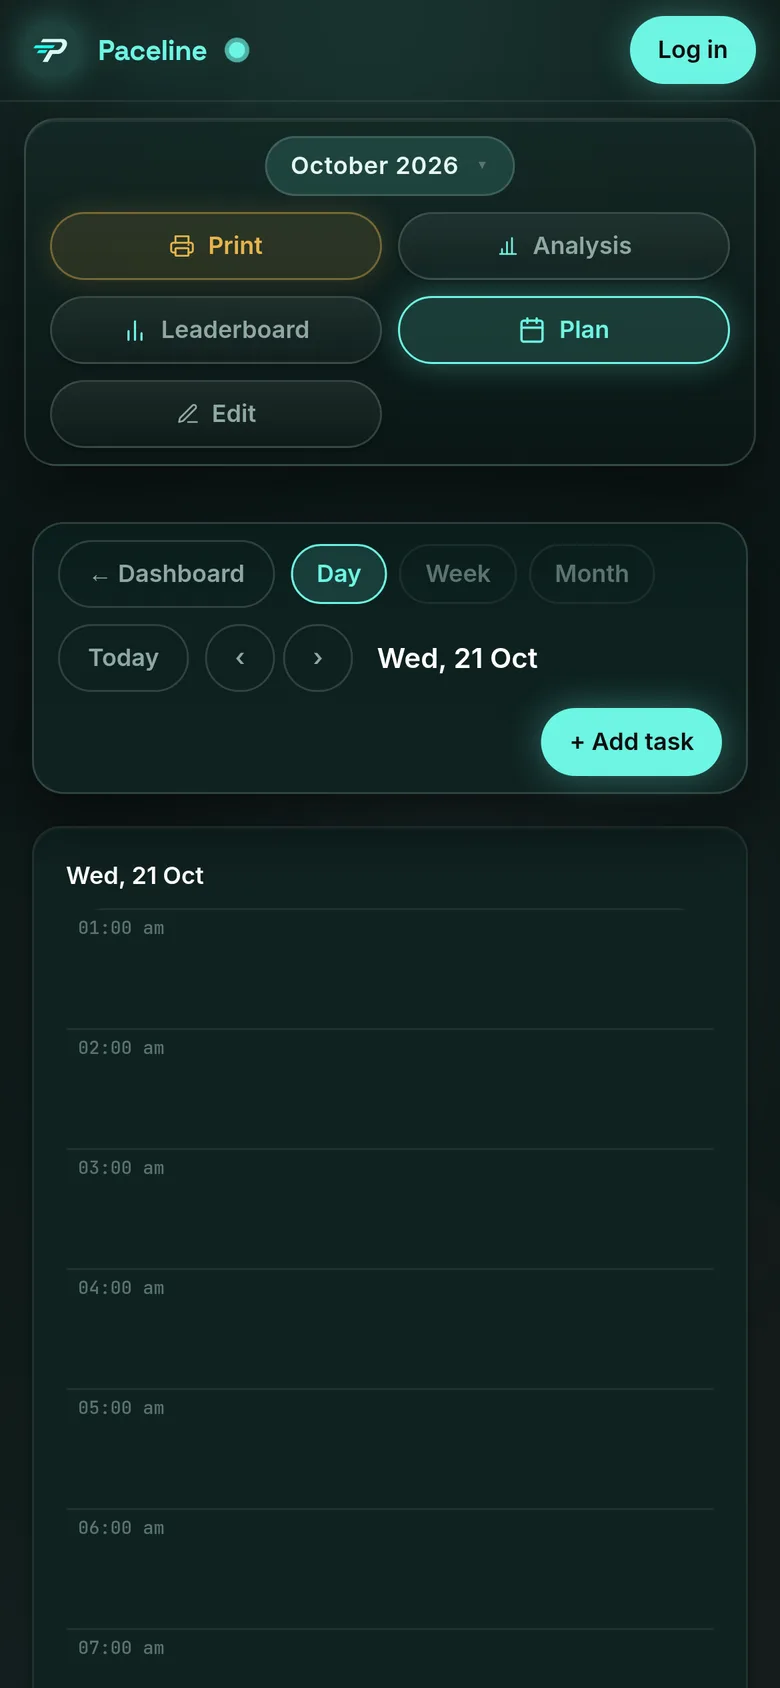
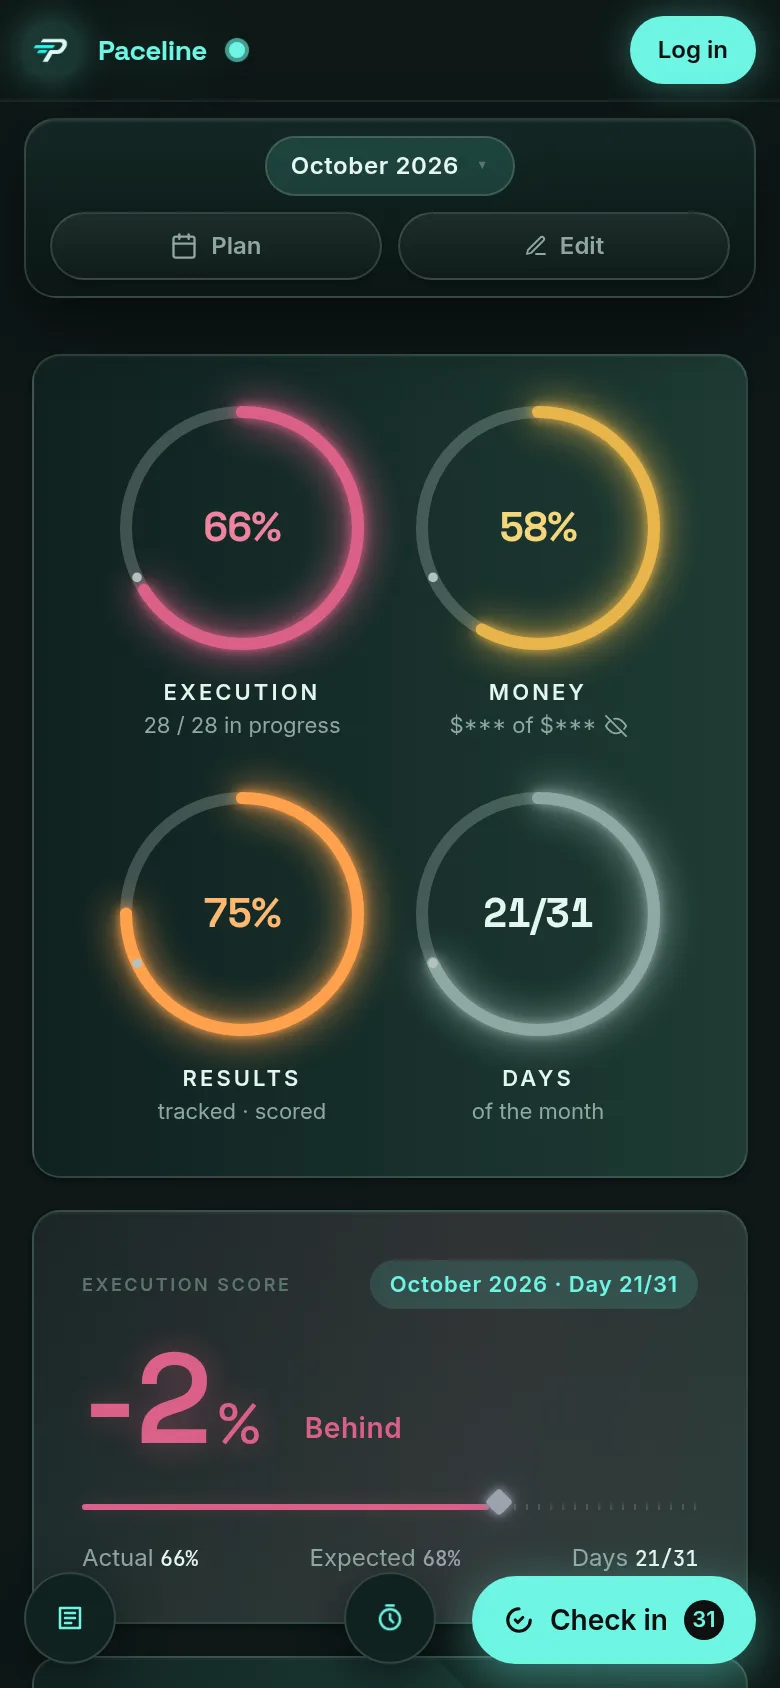
Move the occasional actions into Settings, dock the phone buttons, and use the new desktop capture in the hero

diff --git a/src/pages/Landing.jsx b/src/pages/Landing.jsx
@@ -50,12 +50,14 @@ function useReveal() {
 
 function LandingNav({ signedIn }) {
   const [scrolled, setScrolled] = useState(false);
+  const [pastHero, setPastHero] = useState(false);
   const [open, setOpen] = useState(false);
   const [active, setActive] = useState("");
 
   useEffect(() => {
     const onScroll = () => {
       setScrolled(window.scrollY > 12);
+      setPastHero(window.scrollY > 520);
       const ids = ["how-it-works", "features", "faq"];
       let current = "";
       for (const id of ids) {
@@ -76,6 +78,7 @@ function LandingNav({ signedIn }) {
   ];
 
   return (
+    <>
     <header
       className={`sticky top-0 z-50 transition-colors ${scrolled || open ? "nav-blur" : "bg-transparent"}`}
       style={!scrolled && !open ? { borderBottom: "1px solid transparent" } : undefined}
@@ -145,7 +148,7 @@ function LandingNav({ signedIn }) {
                 setOpen(false);
                 scrollToId(l.id);
               }}
-              className="text-left text-sm py-2"
+              className="text-left text-sm py-3 rounded-lg px-3"
               style={{ color: active === l.id ? "var(--color-accent)" : "var(--color-text-secondary)" }}
             >
               {l.label}
@@ -153,19 +156,39 @@ function LandingNav({ signedIn }) {
           ))}
           <div className="flex flex-col gap-2 pt-2 mt-1" style={{ borderTop: "1px solid var(--color-border-subtle)" }}>
             {signedIn ? (
-              <Btn onClick={() => go("#/app")}>Open tracker</Btn>
+              <Btn className="w-full" size="lg" onClick={() => go("#/app")}>Open tracker</Btn>
             ) : (
               <>
-                <Btn variant="secondary" onClick={() => go("#/login")}>
+                <Btn className="w-full" size="lg" variant="secondary" onClick={() => go("#/login")}>
                   Log in
                 </Btn>
-                <Btn onClick={() => go("#/signup")}>Start tracking</Btn>
+                <Btn className="w-full" size="lg" onClick={() => go("#/signup")}>Start tracking</Btn>
               </>
             )}
           </div>
         </div>
       ) : null}
+
     </header>
+
+      {/* Phone-only bottom CTA: the action stays under the thumb once the
+          hero buttons have scrolled away. */}
+      {!open && pastHero ? (
+        <div
+          className="landing-cta md:hidden fixed inset-x-0 bottom-0 z-50 px-4"
+          style={{
+            paddingTop: 22,
+            paddingBottom: "calc(10px + env(safe-area-inset-bottom, 0px))",
+            background: "linear-gradient(180deg, rgba(11,21,20,0) 0%, rgba(11,21,20,0.92) 45%, rgba(11,21,20,0.98) 100%)",
+            backdropFilter: "blur(6px)",
+          }}
+        >
+          <Btn size="lg" className="w-full press-btn" onClick={() => go(signedIn ? "#/app" : "#/signup")}>
+            {signedIn ? "Open tracker" : "Start tracking — free"}
+          </Btn>
+        </div>
+      ) : null}
+    </>
   );
 }
 
@@ -194,14 +217,14 @@ function RealScreens() {
         >
           <img
             src={SHOT_DESKTOP}
-            alt="The Paceline dashboard: rings for execution, money, results and days, the pace chart, and this month's goal cards."
+            alt="The Paceline dashboard: the month header, rings for execution, money, results and days, the pace chart, and the checklist and focus buttons."
             width="1440"
-            height="936"
+            height="692"
             loading="eager"
             fetchPriority="high"
             decoding="async"
             className="hidden h-auto w-full sm:block"
-            style={{ aspectRatio: "1440 / 936" }}
+            style={{ aspectRatio: "1440 / 692" }}
           />
           {/* Below 640px the laptop capture would be unreadable, so the frame
               shows the phone capture at a size you can actually read. */}
@@ -477,13 +500,13 @@ export default function Landing() {
             </p>
 
             <div className="mt-7 flex flex-col sm:flex-row justify-center gap-3">
-              <Btn size="lg" className="press-btn hover-arrow" onClick={() => go("#/signup")}>
+              <Btn size="lg" className="press-btn hover-arrow w-full sm:w-auto" onClick={() => go("#/signup")}>
                 Start tracking
                 <svg className="arrow-slide" width="15" height="15" viewBox="0 0 24 24" fill="none" stroke="currentColor" strokeWidth="2.2" strokeLinecap="round" strokeLinejoin="round" aria-hidden="true">
                   <path d="M5 12h14M13 6l6 6-6 6" />
                 </svg>
               </Btn>
-              <Btn size="lg" variant="secondary" onClick={() => scrollToId("how-it-works")}>
+              <Btn size="lg" variant="secondary" className="w-full sm:w-auto" onClick={() => scrollToId("how-it-works")}>
                 See how it works
               </Btn>
             </div>
@@ -722,7 +745,7 @@ export default function Landing() {
 /* ── Footer ────────────────────────────────────────────────── */
 export function LandingFooter() {
   return (
-    <footer className="px-4 sm:px-6 py-10" style={{ borderTop: "1px solid var(--color-border-subtle)" }}>
+    <footer className="px-4 sm:px-6 py-10 pb-28 md:pb-10" style={{ borderTop: "1px solid var(--color-border-subtle)" }}>
       <div className="mx-auto max-w-[1140px] flex flex-col sm:flex-row items-center justify-between gap-4">
         <div className="flex items-center gap-3">
           <Brand size="sm" />

diff --git a/src/components/Nav.jsx b/src/components/Nav.jsx
@@ -1,10 +1,10 @@
 import { useGoalsStore } from "../store/useGoalsStore";
 import Brand from "./Brand";
 import Avatar from "./Avatar";
-import { IconCheck, IconPencil, IconChart, IconPrint } from "./Icons";
+import { IconCheck, IconPencil } from "./Icons";
 import MonthPicker from "./MonthPicker";
 
-export default function Nav({ view = "dashboard", onSetView, onOpenAnalysis, onOpenLeaderboard, onPrint, onOpenSettings }) {
+export default function Nav({ view = "dashboard", onSetView, onOpenSettings }) {
   const isGuest = useGoalsStore((s) => s.isGuest);
   const openAuth = useGoalsStore((s) => s.openAuth);
   const editMode = useGoalsStore((s) => s.editMode);
@@ -22,14 +22,6 @@ export default function Nav({ view = "dashboard", onSetView, onOpenAnalysis, onO
       : "linear-gradient(180deg, rgba(229,246,240,0.07), rgba(229,246,240,0.02))",
     boxShadow: active ? "0 0 16px rgba(109,245,227,0.30)" : "0 1px 2px rgba(0,0,0,0.3)",
   });
-
-  // Print gets its own warm tint so it reads as a separate action.
-  const printPill = {
-    border: "1px solid rgba(232,180,75,0.4)",
-    color: "#E8B44B",
-    background: "rgba(232,180,75,0.12)",
-    boxShadow: "0 0 14px rgba(232,180,75,0.18)",
-  };
 
   return (
     <>
@@ -84,41 +76,6 @@ export default function Nav({ view = "dashboard", onSetView, onOpenAnalysis, onO
           <MonthPicker />
           <span className="nav-divider" aria-hidden="true" />
           <div className="flex items-center gap-2 flex-wrap justify-end controls-actions">
-            <button
-              type="button"
-              onClick={() => onPrint?.()}
-              className="nav-btn"
-              title="Print this month"
-              style={printPill}
-            >
-              <span><IconPrint size={13} /></span>
-              Print
-            </button>
-            <span className="nav-divider" aria-hidden="true" />
-            <button
-              type="button"
-              onClick={() => onOpenAnalysis?.()}
-              className="nav-btn"
-              title="Month analysis"
-              style={pill(false)}
-            >
-              <span style={{ color: "var(--color-accent)" }}><IconChart size={12} /></span>
-              Analysis
-            </button>
-            <button
-              type="button"
-              onClick={() => onOpenLeaderboard?.()}
-              className="nav-btn"
-              title="Leaderboard — ranked by streak"
-              style={pill(false)}
-            >
-              <span style={{ color: "var(--color-accent)" }}>
-                <svg width="13" height="13" viewBox="0 0 24 24" fill="none" stroke="currentColor" strokeWidth="2" strokeLinecap="round" strokeLinejoin="round" aria-hidden="true">
-                  <path d="M6 21V13M12 21V4M18 21v-6" />
-                </svg>
-              </span>
-              Leaderboard
-            </button>
             <button
               onClick={() => onSetView?.(view === "plan" ? "dashboard" : "plan")}
               className="nav-btn"

diff --git a/src/components/SettingsPanel.jsx b/src/components/SettingsPanel.jsx
@@ -8,7 +8,7 @@ import { BRAND } from "../lib/brand";
 import { CURRENCIES, COUNTRIES } from "../lib/geo";
 import { computeStreak, streakLabel } from "../lib/streak";
 import { toast } from "../lib/toast";
-import { IconHelp, IconHome, IconKey, IconSignOut, IconTrash } from "./Icons";
+import { IconChart, IconHelp, IconHome, IconKey, IconPrint, IconSignOut, IconTrash } from "./Icons";
 
 const go = (hash) => {
   window.location.hash = hash;
@@ -74,7 +74,7 @@ function ActionButton({ onClick, label, hint, icon, danger = false }) {
  * Every preference saves the moment it is changed; the account-level ones
  * (leaderboard visibility, activity) are mirrored to the server.
  */
-export default function SettingsPanel({ open, onClose, onOpenTour }) {
+export default function SettingsPanel({ open, onClose, onOpenTour, onOpenAnalysis, onOpenLeaderboard, onPrint }) {
   const user = useGoalsStore((s) => s.user);
   const isGuest = useGoalsStore((s) => s.isGuest);
   const settings = useGoalsStore((s) => s.settings);
@@ -285,6 +285,46 @@ export default function SettingsPanel({ open, onClose, onOpenTour }) {
                   icon={<IconKey size={17} />}
                 />
               )}
+            </div>
+          </section>
+
+          <Divider />
+
+          {/* ── This month — occasional actions, kept out of the sticky deck ── */}
+          <section>
+            <SectionLabel>This month</SectionLabel>
+            <div className="flex flex-col gap-2.5">
+              <ActionButton
+                onClick={() => {
+                  onClose?.();
+                  onOpenAnalysis?.();
+                }}
+                label="Month analysis"
+                hint="How the month is tracking against pace"
+                icon={<IconChart size={17} />}
+              />
+              <ActionButton
+                onClick={() => {
+                  onClose?.();
+                  onOpenLeaderboard?.();
+                }}
+                label="Leaderboard"
+                hint="See where your streak ranks"
+                icon={
+                  <svg width="17" height="17" viewBox="0 0 24 24" fill="none" stroke="currentColor" strokeWidth="2" strokeLinecap="round" strokeLinejoin="round" aria-hidden="true">
+                    <path d="M6 21V13M12 21V4M18 21v-6" />
+                  </svg>
+                }
+              />
+              <ActionButton
+                onClick={() => {
+                  onClose?.();
+                  onPrint?.();
+                }}
+                label="Print this month"
+                hint="A clean one-page report for the wall"
+                icon={<IconPrint size={17} />}
+              />
             </div>
           </section>
 

diff --git a/src/index.css b/src/index.css
@@ -513,6 +513,36 @@ html, body {
   .controls-card .nav-divider { display: none; }
   .controls-actions { display: grid; grid-template-columns: 1fr 1fr; gap: 8px; width: 100%; }
   .controls-actions .nav-btn { width: 100%; }
+
+  /* One dock instead of three stray pills: Checklist left, Focus centre,
+     Check in right, all sitting on the same 12px safe-area line. */
+  .fab-notes,
+  .fab-focus,
+  .fab-checkin { bottom: calc(12px + env(safe-area-inset-bottom, 0px)); }
+  .fab-notes { left: 12px; }
+  .fab-focus { left: 50%; transform: translateX(-50%); }
+  .fab-checkin { right: 12px; }
+  .fab-checkin button,
+  .fab-notes button,
+  .fab-focus button { min-height: 44px; }
+  /* Phones keep the dock compact: the two secondary tools become round
+     46px buttons, the primary Check in keeps its label. */
+  .fab-notes .fab-label,
+  .fab-focus .fab-label { display: none; }
+  .fab-notes button,
+  .fab-focus button {
+    width: 46px;
+    min-width: 46px;
+    height: 46px;
+    padding: 0;
+    border-radius: 999px;
+    justify-content: center;
+  }
+  .fab-checkin button span,
+  .fab-focus button span { white-space: nowrap; }
+
+  /* Keep page content clear of the dock. */
+  .page-container { padding-bottom: 84px; }
 }
 
 /* Animations for enhanced components */
@@ -984,3 +1014,7 @@ html, body {
   transition: transform 0.4s linear;
   transform-origin: left;
 }
+
+/* The consent banner owns the bottom of the screen on a phone; the sticky
+   landing CTA waits its turn instead of stacking behind it. */
+body:has(.cookie-banner-in) .landing-cta { display: none; }

diff --git a/src/App.jsx b/src/App.jsx
@@ -213,19 +213,15 @@ function Dashboard() {
         <div className="bg-orb orb-teal" />
         <div className="bg-sheen" />
       </div>
-      <Nav
-        view={view}
-        onSetView={setView}
-        onOpenAnalysis={() => setShowAnalysis(true)}
-        onOpenLeaderboard={() => setShowLeaderboard(true)}
-        onPrint={() => setShowPrint(true)}
-        onOpenSettings={() => setShowSettings(true)}
-      />
+      <Nav view={view} onSetView={setView} onOpenSettings={() => setShowSettings(true)} />
       {showLeaderboard && <Leaderboard onClose={() => setShowLeaderboard(false)} />}
       <SettingsPanel
         open={showSettings}
         onClose={() => setShowSettings(false)}
         onOpenTour={() => setShowTour(true)}
+        onOpenAnalysis={() => setShowAnalysis(true)}
+        onOpenLeaderboard={() => setShowLeaderboard(true)}
+        onPrint={() => setShowPrint(true)}
       />
       <HowToTour
         open={showTour}

diff --git a/src/components/Pomodoro.jsx b/src/components/Pomodoro.jsx
@@ -402,7 +402,7 @@ export default function Pomodoro() {
 
   return (
     <>
-      <div className="fixed bottom-24 left-5 z-40 sm:bottom-5 sm:left-44">
+      <div className="fab-focus fixed bottom-24 left-5 z-40 sm:bottom-5 sm:left-44">
         <button
           onClick={() => setOpen(true)}
           className="flex items-center gap-2 px-4 py-3 rounded-full font-bold text-sm"
@@ -420,7 +420,7 @@ export default function Pomodoro() {
             <circle cx="12" cy="13" r="8" />
             <path d="M12 9v4l2.5 2.5M9 2h6" />
           </svg>
-          {label}
+          <span className="fab-label">{label}</span>
           {livingRemaining !== null && (
             <span
               className="grid place-items-center min-w-[22px] h-5 px-1.5 rounded-full text-[11px] font-bold tabular-nums"

diff --git a/src/components/CheckIn.jsx b/src/components/CheckIn.jsx
@@ -32,12 +32,12 @@ export default function CheckIn({ categories, onIncrement, onDecrement, onResult
 
   return (
     <>
-      <div className="fixed bottom-5 right-5 z-40 flex flex-col items-end gap-2 sm:flex-row sm:items-center">
+      <div className="fab-checkin fixed bottom-5 right-5 z-40 flex flex-col items-end gap-2 sm:flex-row sm:items-center">
         <button
           onClick={scrollToTop}
           aria-label="Back to top"
           title="Back to top"
-          className="flex items-center justify-center rounded-full px-3 py-3 font-bold"
+          className="hidden sm:flex items-center justify-center rounded-full px-3 py-3 font-bold"
           style={{
             background: "var(--color-navy-600)",
             color: "var(--color-text-secondary)",

diff --git a/src/components/Notes.jsx b/src/components/Notes.jsx
@@ -358,7 +358,7 @@ export default function Notes() {
 
   return (
     <>
-      <div className="fixed bottom-5 left-5 z-40 flex items-center gap-2">
+      <div className="fab-notes fixed bottom-5 left-5 z-40 flex items-center gap-2">
         <button
           onClick={() => setOpen(true)}
           className="flex items-center gap-2 px-4 py-3 rounded-full font-bold text-sm"
@@ -375,7 +375,7 @@ export default function Notes() {
             <path d="M4 4h16v16H4z" />
             <path d="M8 8h8M8 12h8M8 16h5" />
           </svg>
-          Checklist
+          <span className="fab-label">Checklist</span>
           {notes.length > 0 && (
             <span
               className="grid place-items-center min-w-[20px] h-5 px-1 rounded-full text-[11px] font-bold"
